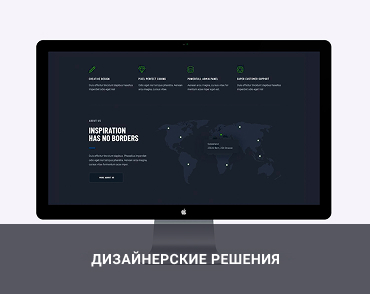
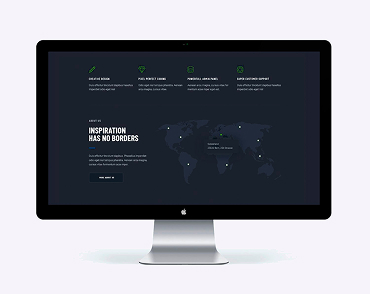
Replaced images in Our-work section.

Changed region(s): [[0.0, 0.7347, 1.0, 1.0]]

diff --git a/studio.html b/studio.html
@@ -140,15 +140,15 @@
         <h2 class="section-title">Чим ми займаємось</h2>
         <ul class="work-list list">
           <li class="work-item">
-            <img class="work-image" src=".//images/our-work/desktop-application.jpg" width="370" alt="Desktop applications">
+            <img class="work-image" src="./images/our-work/desktop-application.jpg" width="370" alt="Desktop applications">
             <p class="work-description">Десктопні застосунки</p>
           </li>
           <li class="work-item">
-            <img class="work-image" src=".//images/our-work/mobile-application.jpg" width="370" alt="Smartphone applications">
+            <img class="work-image" src="./images/our-work/mobile-application.jpg" width="370" alt="Smartphone applications">
             <p class="work-description">Мобільні застосунки</p>
           </li>
           <li class="work-item">
-            <img class="work-image" src=".//images/our-work/design-solution.jpg" width="370" alt="Aesthetic approaches">
+            <img class="work-image" src="./images/our-work/design-solution.jpg" width="370" alt="Aesthetic approaches">
             <p class="work-description">Дизайнерські рішення</p>
           </li>
         </ul>
@@ -164,23 +164,23 @@
             <picture>
               <!-- DESKTOP -->
               <source srcset="
-              .//images/our-team/mykola-kycherenko-desktop.jpg 1x,
-              .//images/our-team/mykola-kycherenko-desktop@2x.jpg 2x
+              ./images/our-team/mykola-kycherenko-desktop.jpg 1x,
+              ./images/our-team/mykola-kycherenko-desktop@2x.jpg 2x
             " media="(min-width: 1200px)">
 
               <!-- TABLET -->
               <source srcset="
-              .//images/our-team/mykola-kycherenko-tablet.jpg 1x,
-              .//images/our-team/mykola-kycherenko-tablet@2x.jpg 2x
+              ./images/our-team/mykola-kycherenko-tablet.jpg 1x,
+              ./images/our-team/mykola-kycherenko-tablet@2x.jpg 2x
             " media="(min-width: 768px)">
 
               <!-- MOBILE -->
               <source srcset="
-              .//images/our-team/mykola-kycherenko-mobile.jpg 1x,
-              .//images/our-team/mykola-kycherenko-mobile@2x.jpg 2x
+              ./images/our-team/mykola-kycherenko-mobile.jpg 1x,
+              ./images/our-team/mykola-kycherenko-mobile@2x.jpg 2x
             " media="(max-width: 767px)">
 
-              <img class="team-image" src=".//images/our-team/mykola-kycherenko-mobile.jpg"
+              <img class="team-image" src="./images/our-team/mykola-kycherenko-mobile.jpg"
                 alt="Микола Кучеренко" width="450" height="320">
             </picture>
             <h3 class="team-name">Микола Кучеренко</h3>
@@ -220,23 +220,23 @@
             <picture>
               <!-- DESKTOP -->
               <source srcset="
-              .//images/our-team/olha-ivanova-desktop.jpg 1x,
-              .//images/our-team/olha-ivanova-desktop@2x.jpg 2x
+              ./images/our-team/olha-ivanova-desktop.jpg 1x,
+              ./images/our-team/olha-ivanova-desktop@2x.jpg 2x
             " media="(min-width: 1200px)">
 
               <!-- TABLET -->
               <source srcset="
-              .//images/our-team/olha-ivanova-tablet.jpg 1x,
-              .//images/our-team/olha-ivanova-tablet@2x.jpg 2x
+              ./images/our-team/olha-ivanova-tablet.jpg 1x,
+              ./images/our-team/olha-ivanova-tablet@2x.jpg 2x
             " media="(min-width: 768px)">
 
               <!-- MOBILE -->
               <source srcset="
-              .//images/our-team/olha-ivanova-mobile.jpg 1x,
-              .//images/our-team/olha-ivanova-mobile@2x.jpg 2x
+              ./images/our-team/olha-ivanova-mobile.jpg 1x,
+              ./images/our-team/olha-ivanova-mobile@2x.jpg 2x
             " media="(max-width: 767px)">
 
-              <img class="team-image" src=".//images/our-team/olha-ivanova-mobile.jpg"
+              <img class="team-image" src="./images/our-team/olha-ivanova-mobile.jpg"
                 alt="Ольга Іванова" width="450" height="320">
             </picture>
             <h3 class="team-name">Ольга Іванова</h3>
@@ -276,23 +276,23 @@
             <picture>
               <!-- DESKTOP -->
               <source srcset="
-                          .//images/our-team/andriy-shevchenko-desktop.jpg 1x,
-                          .//images/our-team/andriy-shevchenko-desktop@2x.jpg 2x
+                          ./images/our-team/andriy-shevchenko-desktop.jpg 1x,
+                          ./images/our-team/andriy-shevchenko-desktop@2x.jpg 2x
                         " media="(min-width: 1200px)">
 
               <!-- TABLET -->
               <source srcset="
-                          .//images/our-team/andriy-shevchenko-tablet.jpg 1x,
-                          .//images/our-team/andriy-shevchenko-tablet@2x.jpg 2x
+                          ./images/our-team/andriy-shevchenko-tablet.jpg 1x,
+                          ./images/our-team/andriy-shevchenko-tablet@2x.jpg 2x
                         " media="(min-width: 768px)">
 
               <!-- MOBILE -->
               <source srcset="
-                          .//images/our-team/andriy-shevchenko-mobile.jpg 1x,
-                          .//images/our-team/andriy-shevchenko-mobile@2x.jpg 2x
+                          ./images/our-team/andriy-shevchenko-mobile.jpg 1x,
+                          ./images/our-team/andriy-shevchenko-mobile@2x.jpg 2x
                         " media="(max-width: 767px)">
 
-              <img class="team-image" src=".//images/our-team/andriy-shevchenko-mobile.jpg"
+              <img class="team-image" src="./images/our-team/andriy-shevchenko-mobile.jpg"
                 alt="Андрій Шевченко" width="450" height="320">
             </picture>
             <h3 class="team-name">Андрій Шевченко</h3>
@@ -333,23 +333,23 @@
             <picture>
               <!-- DESKTOP -->
               <source srcset="
-              .//images/our-team/ivan-mukolaiv-desktop.jpg 1x,
-              .//images/our-team/ivan-mukolaiv-desktop@2x.jpg 2x
+              ./images/our-team/ivan-mukolaiv-desktop.jpg 1x,
+              ./images/our-team/ivan-mukolaiv-desktop@2x.jpg 2x
             " media="(min-width: 1200px)">
 
               <!-- TABLET -->
               <source srcset="
-              .//images/our-team/ivan-mukolaiv-tablet.jpg 1x,
-              .//images/our-team/ivan-mukolaiv-tablet@2x.jpg 2x
+              ./images/our-team/ivan-mukolaiv-tablet.jpg 1x,
+              ./images/our-team/ivan-mukolaiv-tablet@2x.jpg 2x
             " media="(min-width: 768px)">
 
               <!-- MOBILE -->
               <source srcset="
-              .//images/our-team/ivan-mukolaiv-mobile.jpg 1x,
-              .//images/our-team/ivan-mukolaiv-mobile@2x.jpg 2x
+              ./images/our-team/ivan-mukolaiv-mobile.jpg 1x,
+              ./images/our-team/ivan-mukolaiv-mobile@2x.jpg 2x
             " media="(max-width: 767px)">
 
-              <img class="team-image" src=".//images/our-team/ivan-mukolaiv-mobile.jpg"
+              <img class="team-image" src="./images/our-team/ivan-mukolaiv-mobile.jpg"
                 alt="Іван Миколаїв" width="450" height="320">
             </picture>
             <h3 class="team-name">Іван Миколаїв</h3>

diff --git a/sass/components/_studio-page.scss b/sass/components/_studio-page.scss
@@ -23,11 +23,8 @@
   background-position: center;
   background-size: contain;
 
-  background-image: linear-gradient(
-      to right,
-      rgba(47, 48, 58, 0.8),
-      rgba(47, 48, 58, 0.8)
-    ),
+  background-image:
+    linear-gradient(to right, rgba(47, 48, 58, 0.8), rgba(47, 48, 58, 0.8)),
     url('../images/hero/hero-mobile.jpg');
 
   // MOBILE RETINA
@@ -35,21 +32,15 @@
     screen and (min-device-pixel-ratio: 2),
     screen and (min-resolution: 192dpi),
     screen and (min-resolution: 2dppx) {
-    background-image: linear-gradient(
-        to right,
-        rgba(47, 48, 58, 0.8),
-        rgba(47, 48, 58, 0.8)
-      ),
+    background-image:
+      linear-gradient(to right, rgba(47, 48, 58, 0.8), rgba(47, 48, 58, 0.8)),
       url('../images/hero/hero-mobile@2x.jpg');
   }
 
   // TABLET
   @media screen and (min-width: 768px) {
-    background-image: linear-gradient(
-        to right,
-        rgba(47, 48, 58, 0.8),
-        rgba(47, 48, 58, 0.8)
-      ),
+    background-image:
+      linear-gradient(to right, rgba(47, 48, 58, 0.8), rgba(47, 48, 58, 0.8)),
       url('../images/hero/hero-tablet.jpg');
   }
 
@@ -58,21 +49,15 @@
     screen and (min-width: 768px) and (min-device-pixel-ratio: 2),
     screen and (min-width: 768px) and (min-resolution: 192dpi),
     screen and (min-width: 768px) and (min-resolution: 2dppx) {
-    background-image: linear-gradient(
-        to right,
-        rgba(47, 48, 58, 0.8),
-        rgba(47, 48, 58, 0.8)
-      ),
+    background-image:
+      linear-gradient(to right, rgba(47, 48, 58, 0.8), rgba(47, 48, 58, 0.8)),
       url('../images/hero/hero-tablet@2x.jpg');
   }
 
   // DESKTOP
   @media screen and (min-width: 1200px) {
-    background-image: linear-gradient(
-        to right,
-        rgba(47, 48, 58, 0.8),
-        rgba(47, 48, 58, 0.8)
-      ),
+    background-image:
+      linear-gradient(to right, rgba(47, 48, 58, 0.8), rgba(47, 48, 58, 0.8)),
       url('../images/hero/hero-desktop.jpg');
   }
 
@@ -81,11 +66,8 @@
     screen and (min-width: 1200px) and (min-device-pixel-ratio: 2),
     screen and (min-width: 1200px) and (min-resolution: 192dpi),
     screen and (min-width: 1200px) and (min-resolution: 2dppx) {
-    background-image: linear-gradient(
-        to right,
-        н rgba(47, 48, 58, 0.8),
-        rgba(47, 48, 58, 0.8)
-      ),
+    background-image:
+      linear-gradient(to right, rgba(47, 48, 58, 0.8), rgba(47, 48, 58, 0.8)),
       url('../images/hero/hero-desktop@2x.jpg');
   }
 }
@@ -246,7 +228,9 @@
   width: 100%;
 
   border-radius: 0 0 4px 4px;
-  box-shadow: 0 2px 1px 0 rgba(0, 0, 0, 0.2), 0 1px 1px 0 rgba(0, 0, 0, 0.14),
+  box-shadow:
+    0 2px 1px 0 rgba(0, 0, 0, 0.2),
+    0 1px 1px 0 rgba(0, 0, 0, 0.14),
     0 1px 3px 0 rgba(0, 0, 0, 0.12);
 
   background-color: $white-color;
@@ -304,7 +288,8 @@
   width: 44px;
   height: 44px;
 
-  transition: color $time-delay $time-fuction,
+  transition:
+    color $time-delay $time-fuction,
     background-color $time-delay $time-fuction;
 
   border-radius: 50%;
@@ -356,7 +341,9 @@
   width: 170px;
   height: 90px;
 
-  transition: color $time-delay $time-fuction, border $time-delay $time-fuction;
+  transition:
+    color $time-delay $time-fuction,
+    border $time-delay $time-fuction;
 
   border: 1px solid #afb1b8;
   border-radius: 4px;
